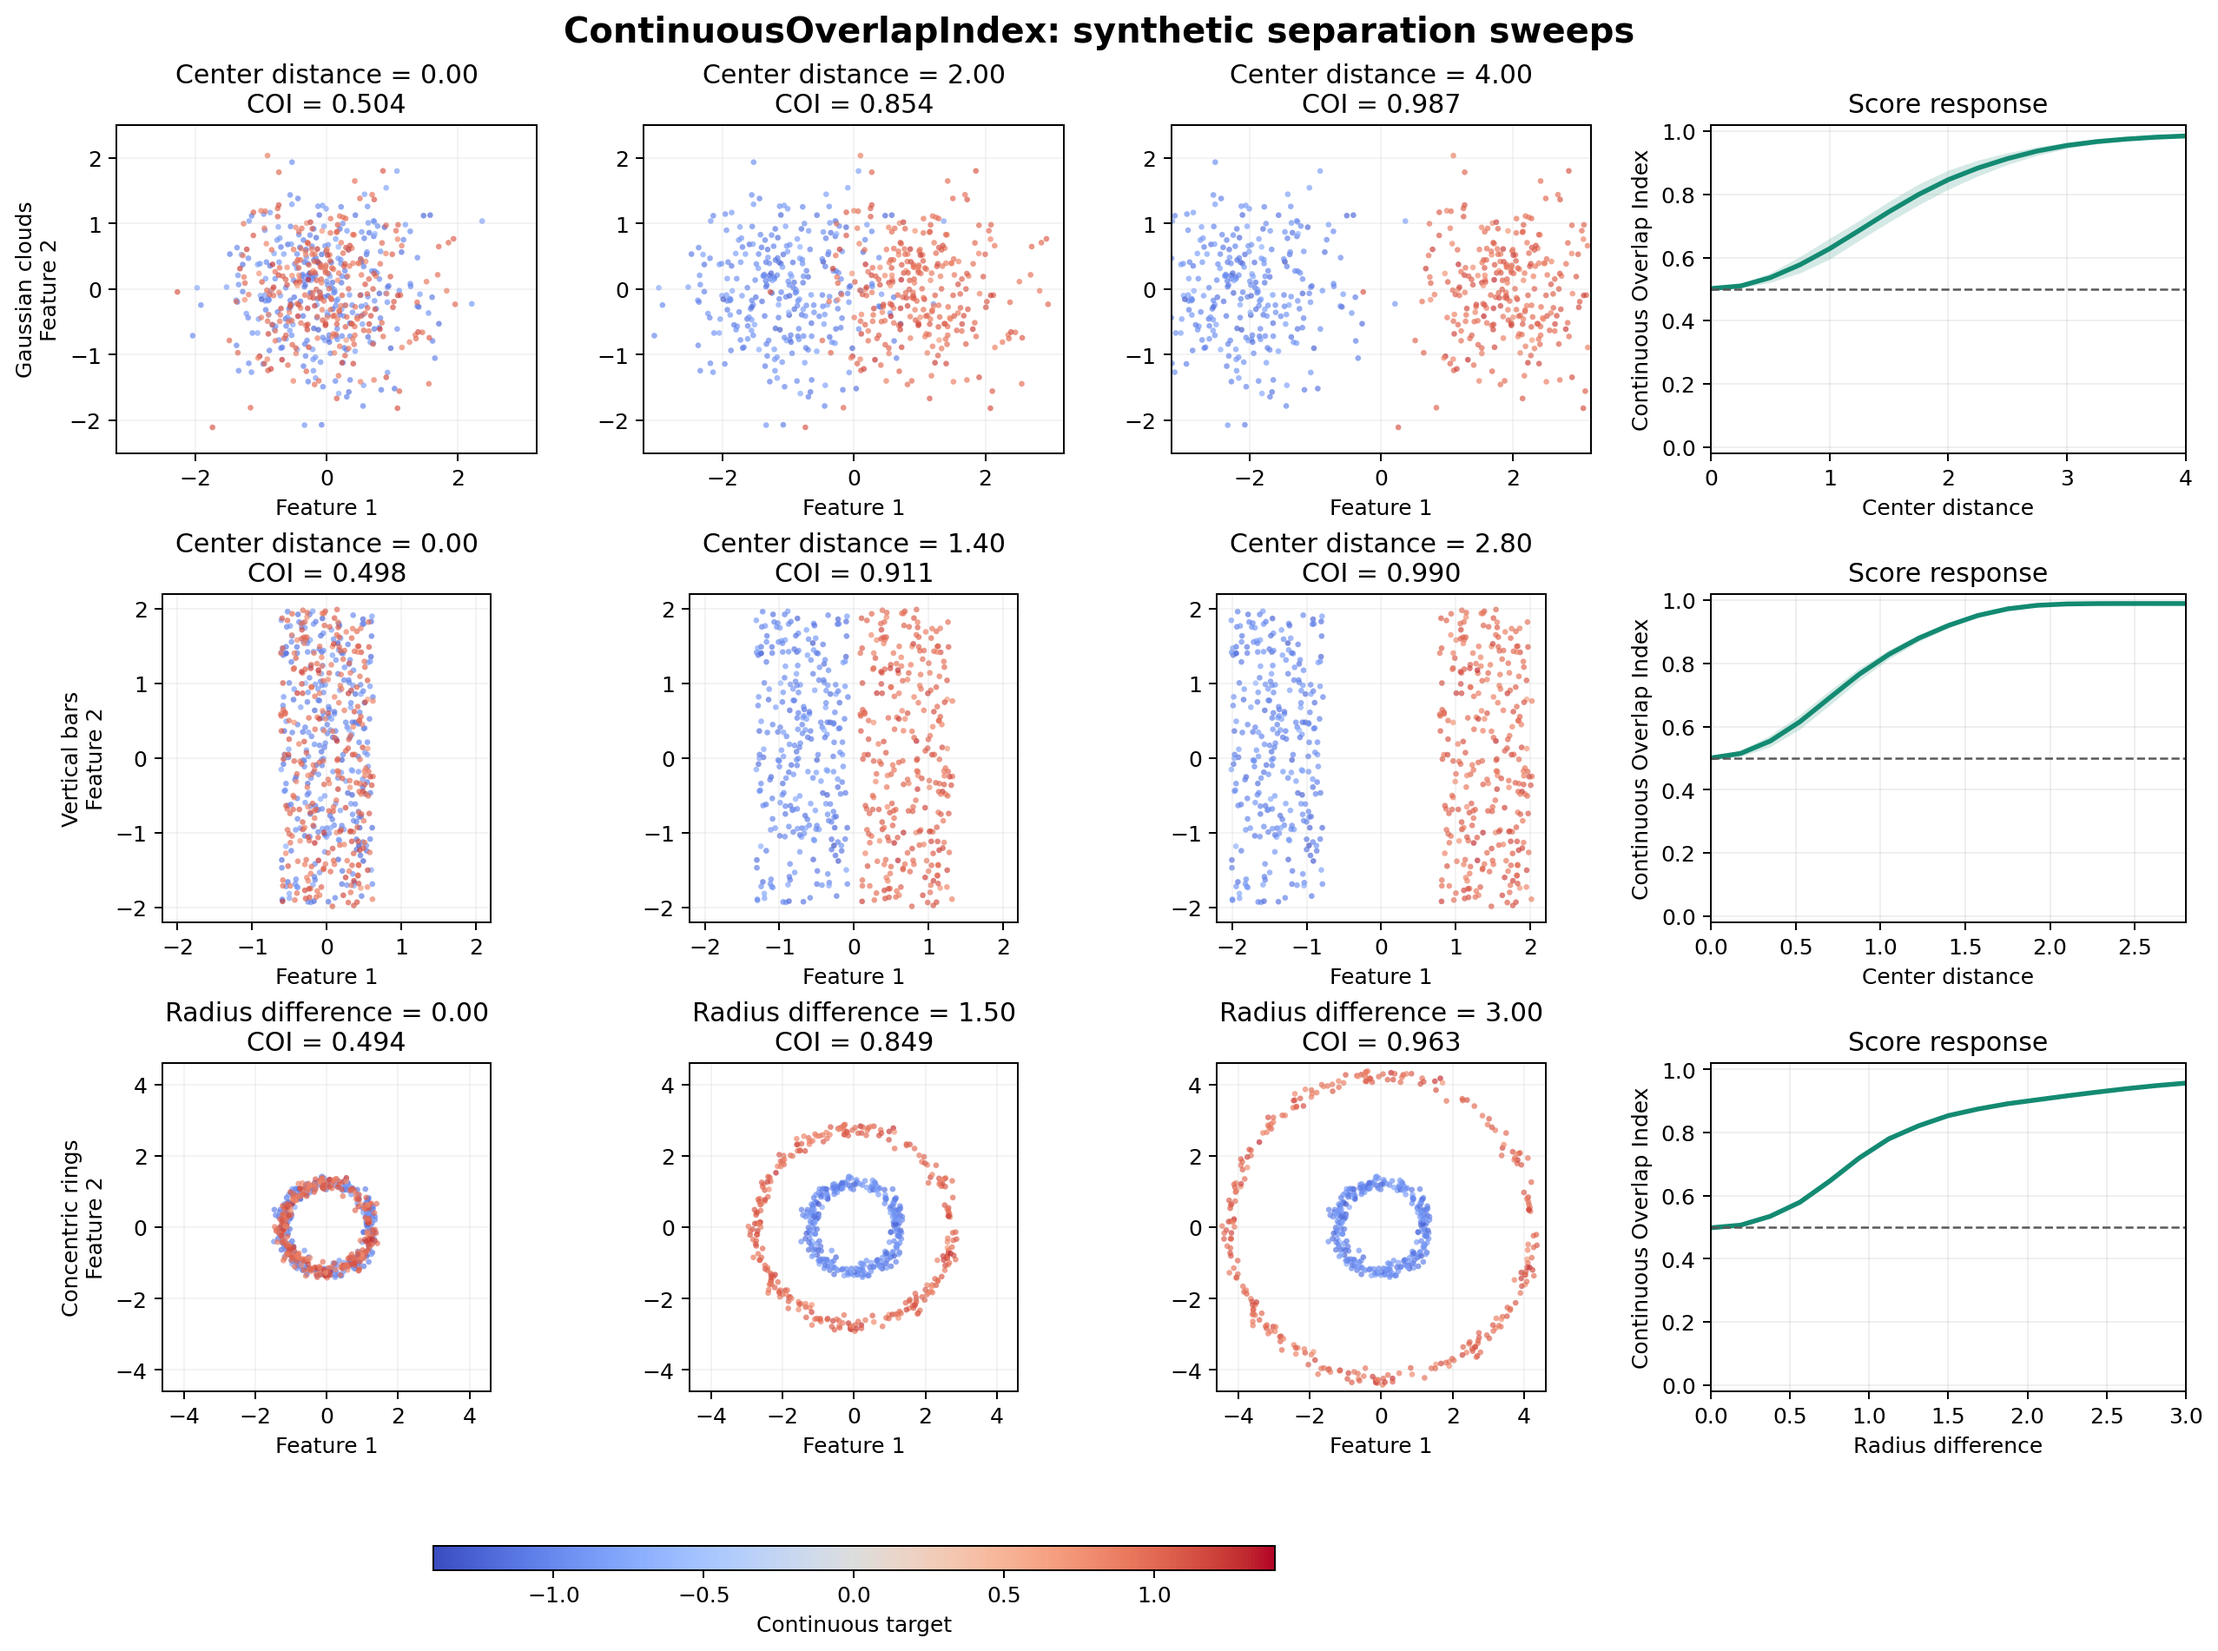
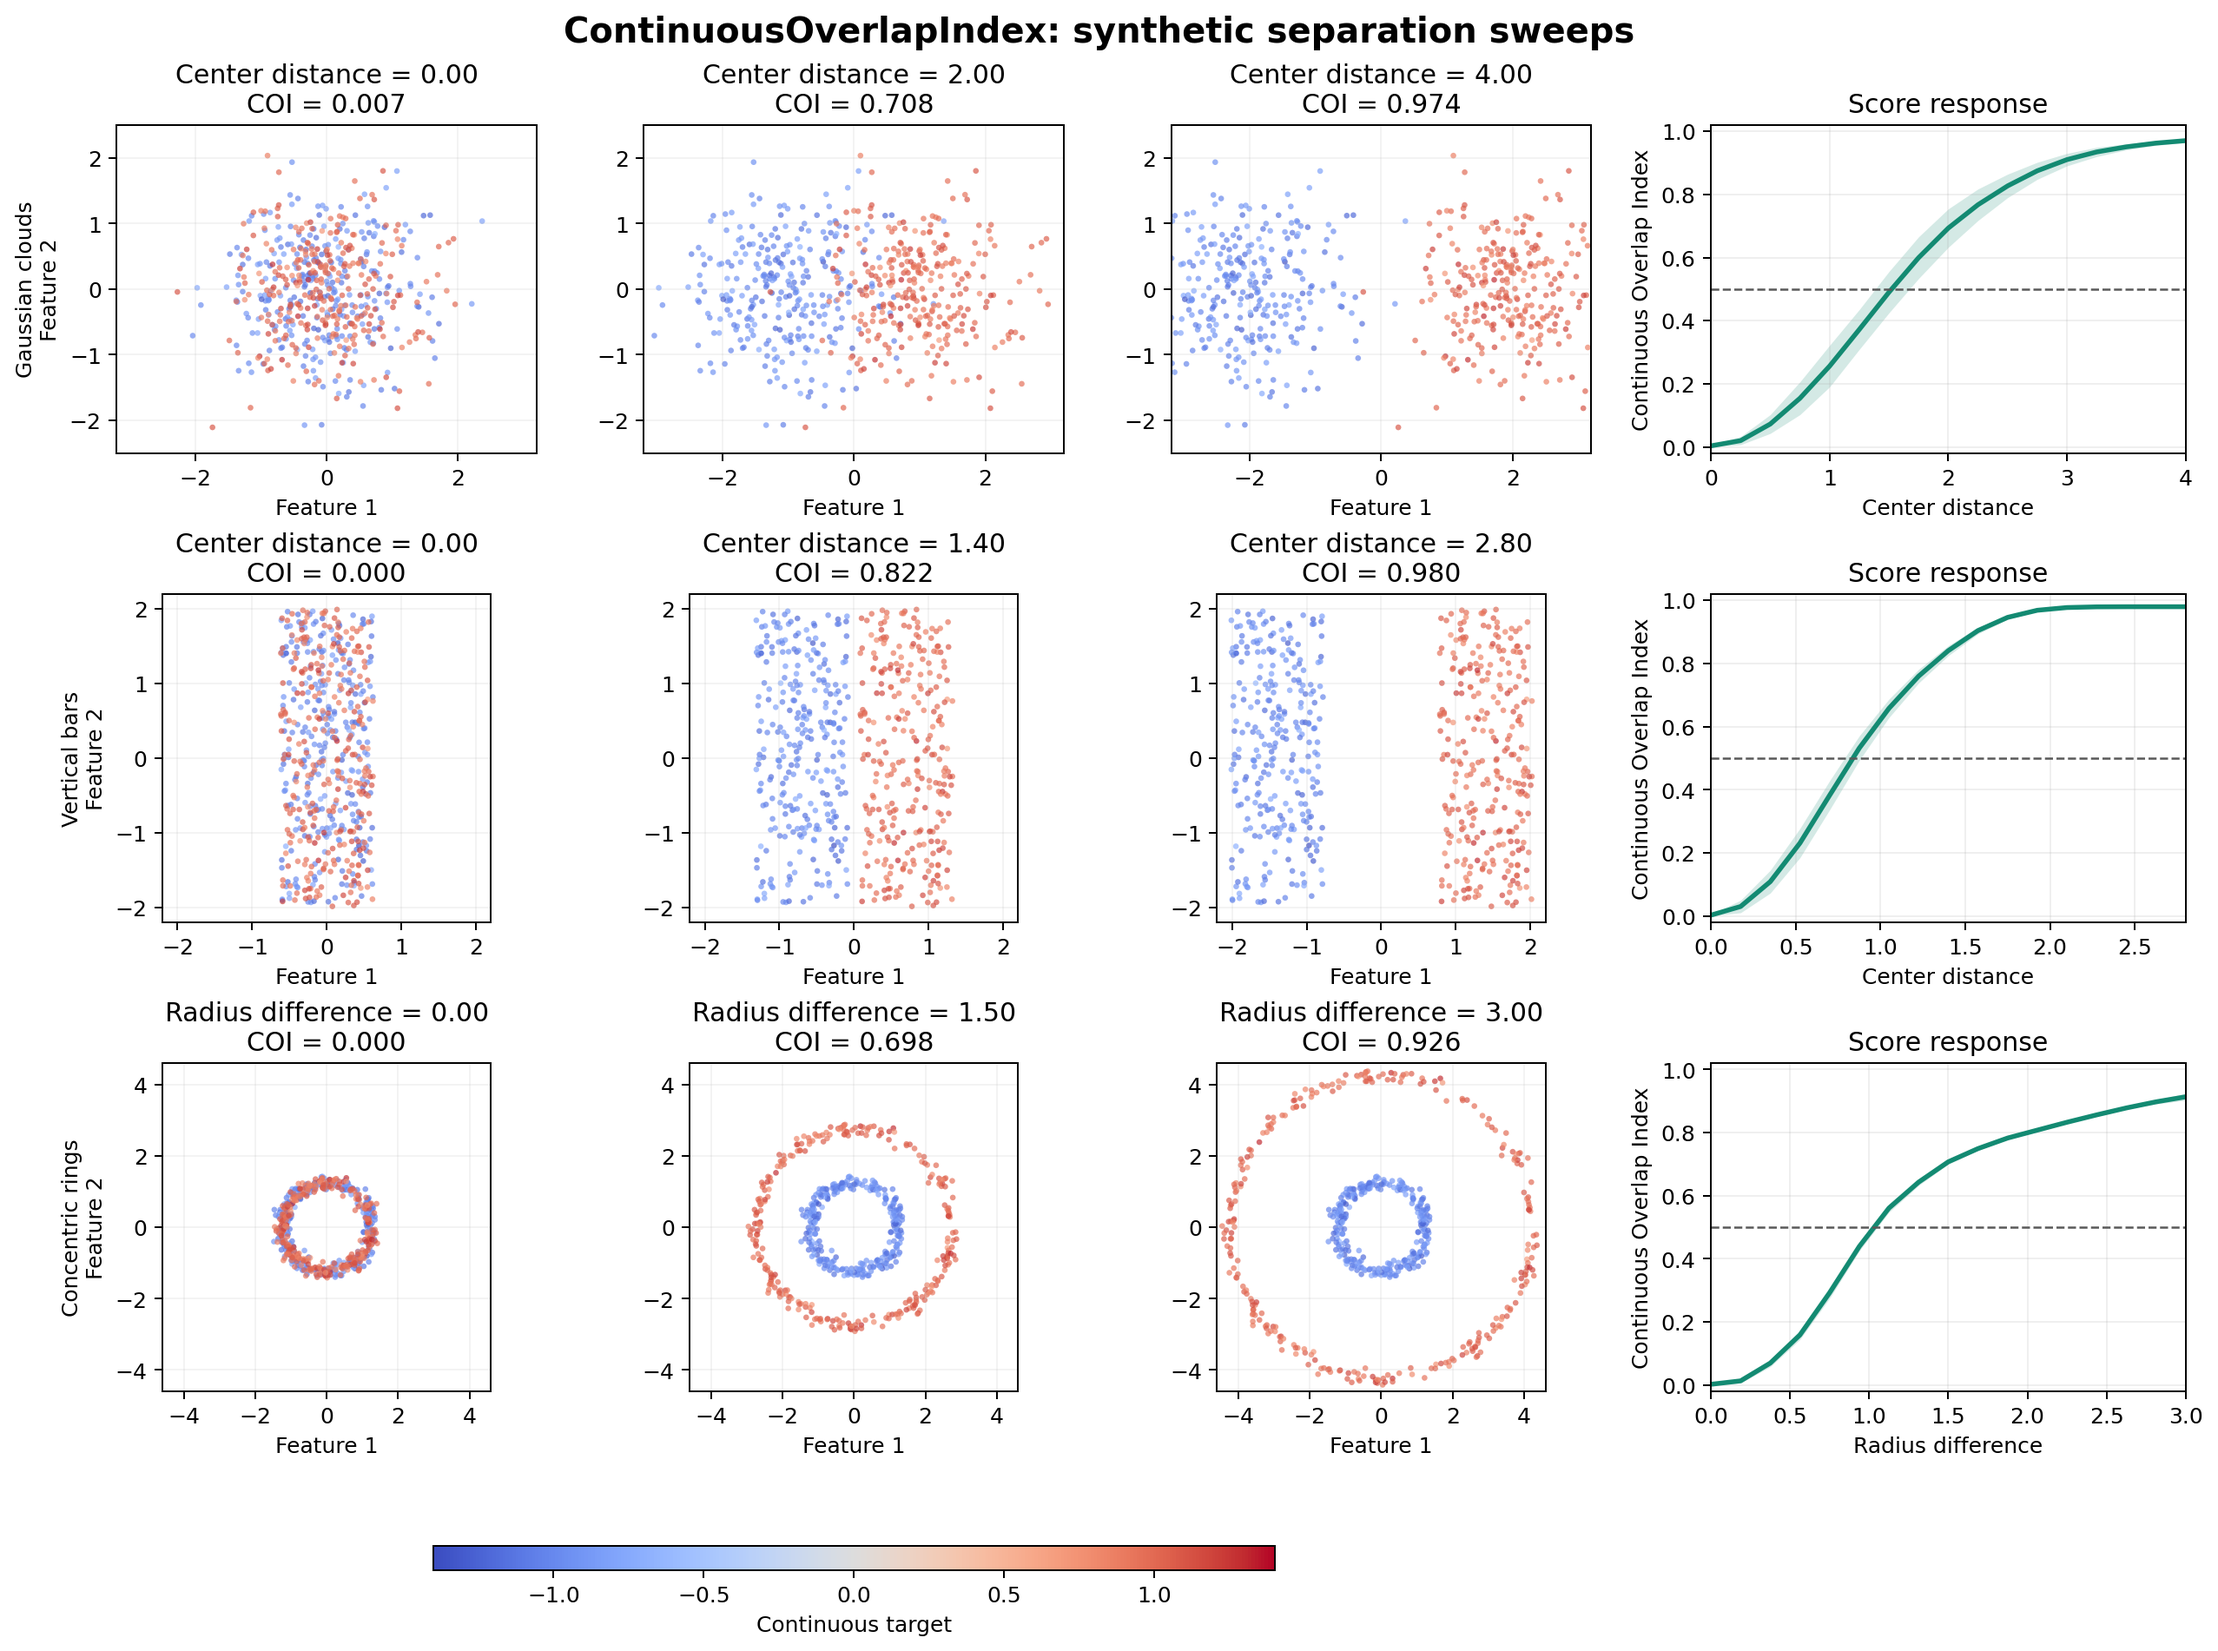
update anchoring point

diff --git a/README.md b/README.md
@@ -86,8 +86,7 @@ The examples below sweep two synthetic populations from fully interleaved to
 well separated. Gaussian clouds and vertical bars vary the distance between
 their centers; concentric rings vary the difference between their radii. Each
 response curve is the mean across repeated deterministic draws, and the shaded
-band shows one standard deviation. The dashed line marks the `0.5`
-interpretation anchor.
+band shows one standard deviation.
 
 ![Discrete OverlapIndex separation sweeps](img/discrete_overlap_sweeps.png)
 
@@ -410,7 +409,7 @@ at the `0.0` lower endpoint.
 
 Here the same three geometries are paired with noisy, genuinely continuous
 targets drawn from two target regimes. With the refit-permutation null, fully
-mixed feature populations calibrate near `0.5`; the score rises toward `1.0`
+mixed feature populations calibrate near `0.0`; the score rises toward `1.0`
 as incompatible target regimes become separated in feature space.
 
 ![ContinuousOverlapIndex separation sweeps](img/continuous_overlap_sweeps.png)
